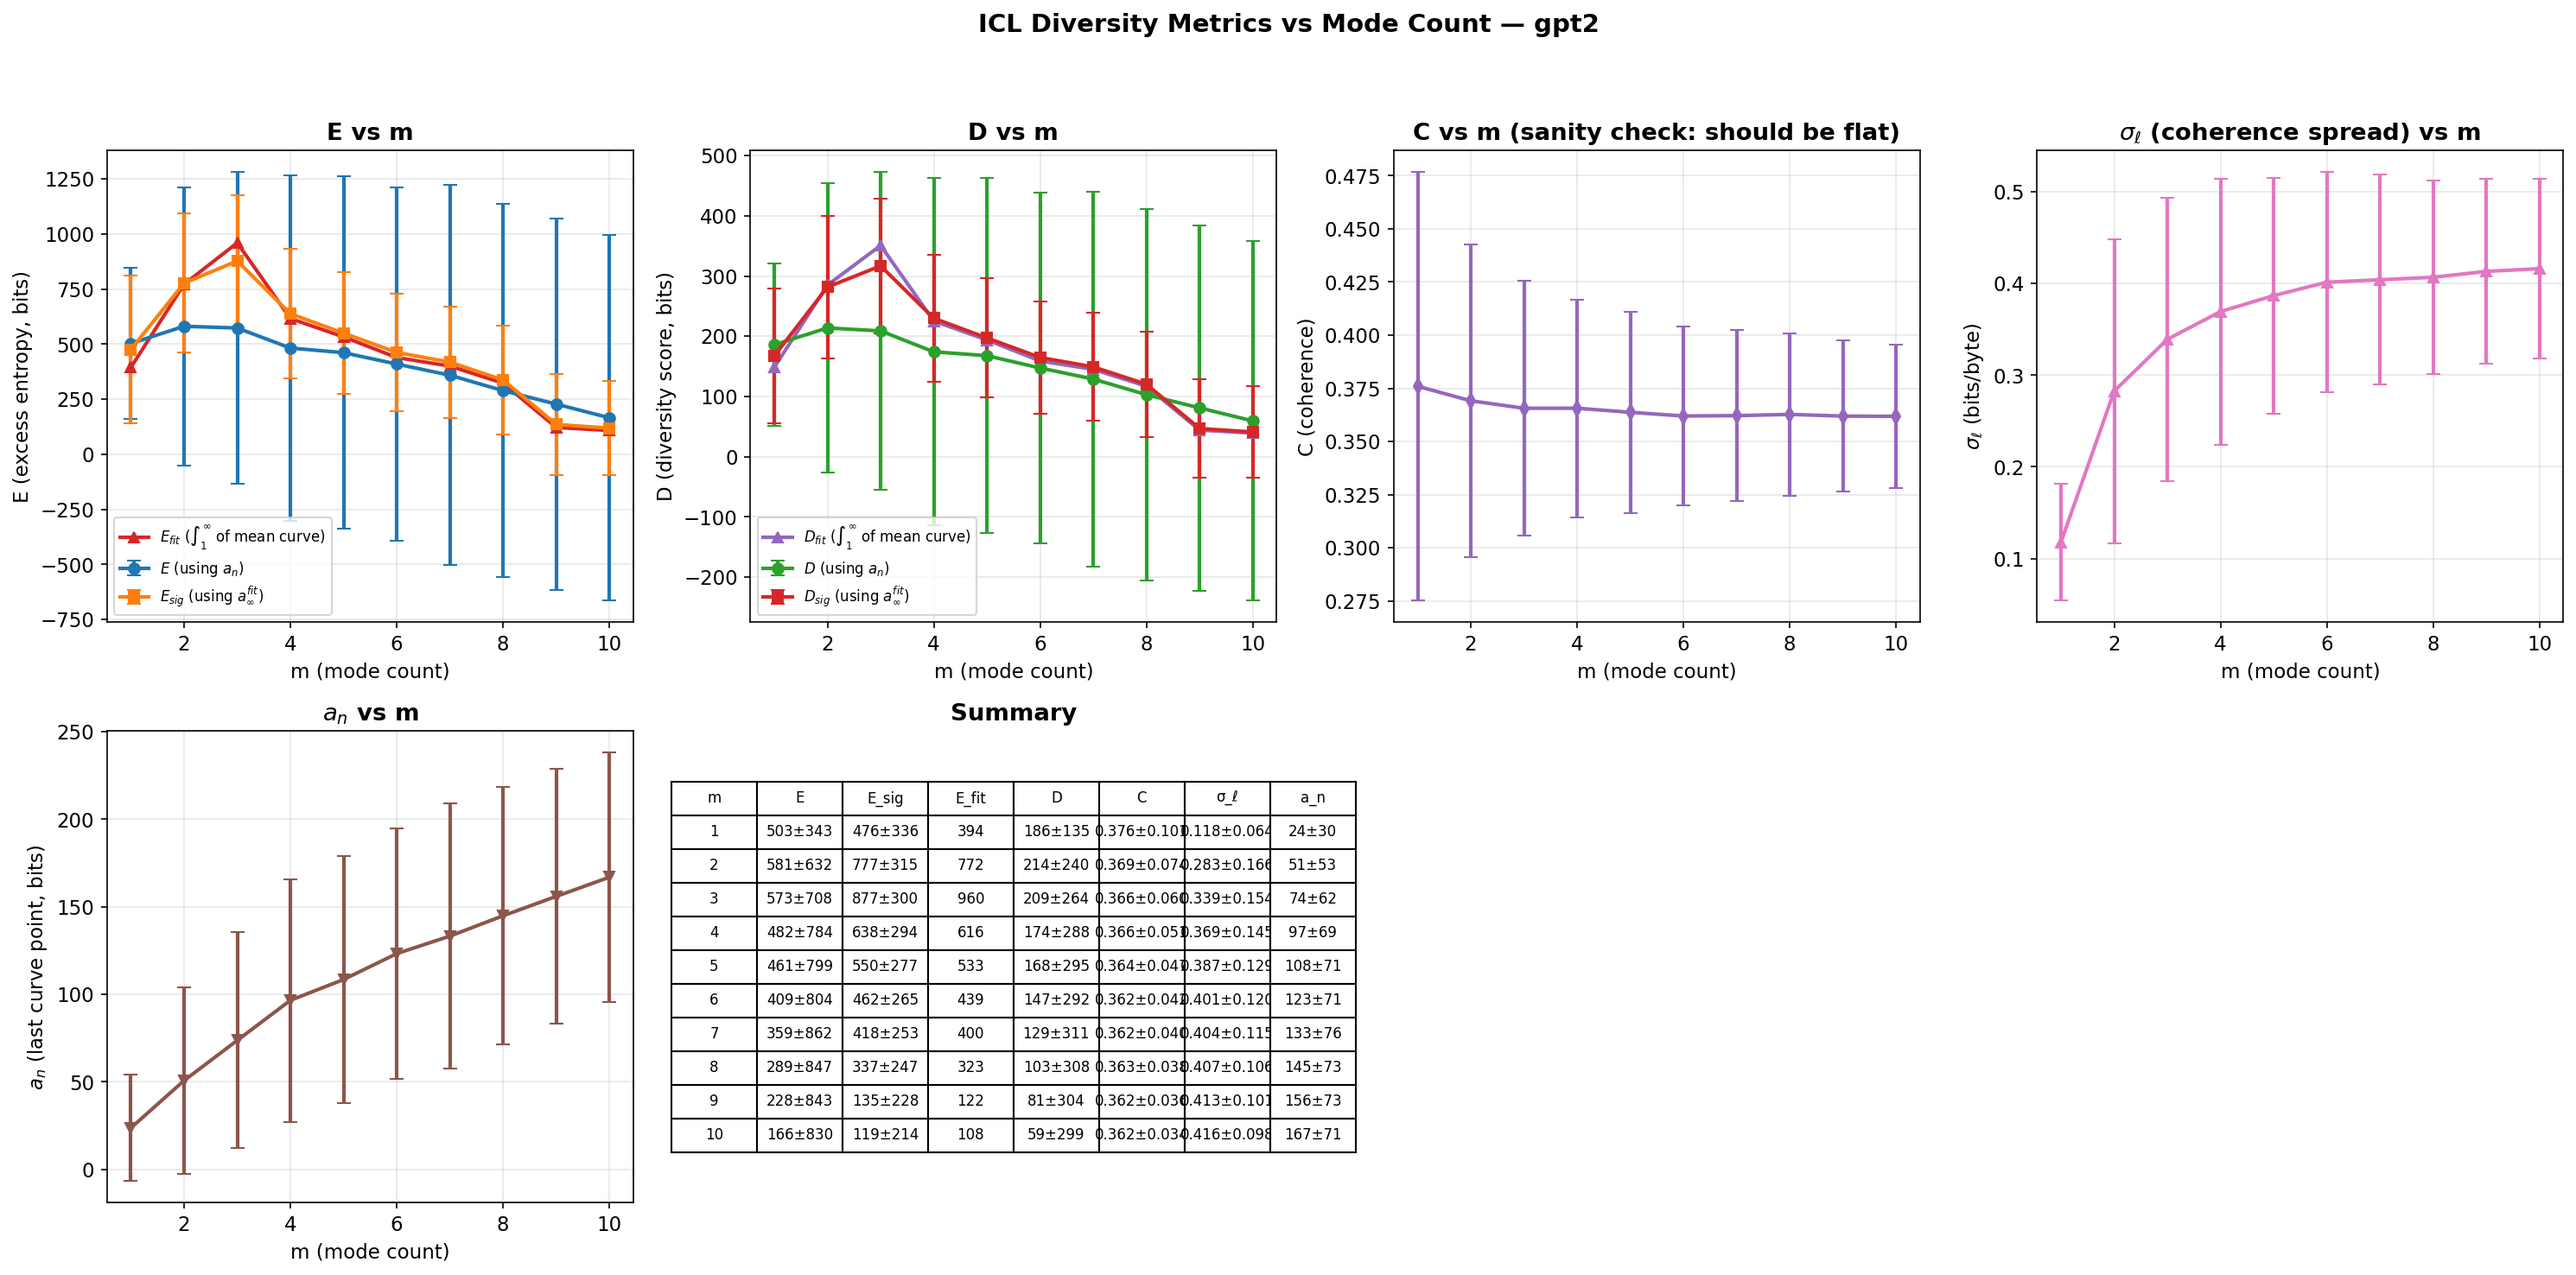
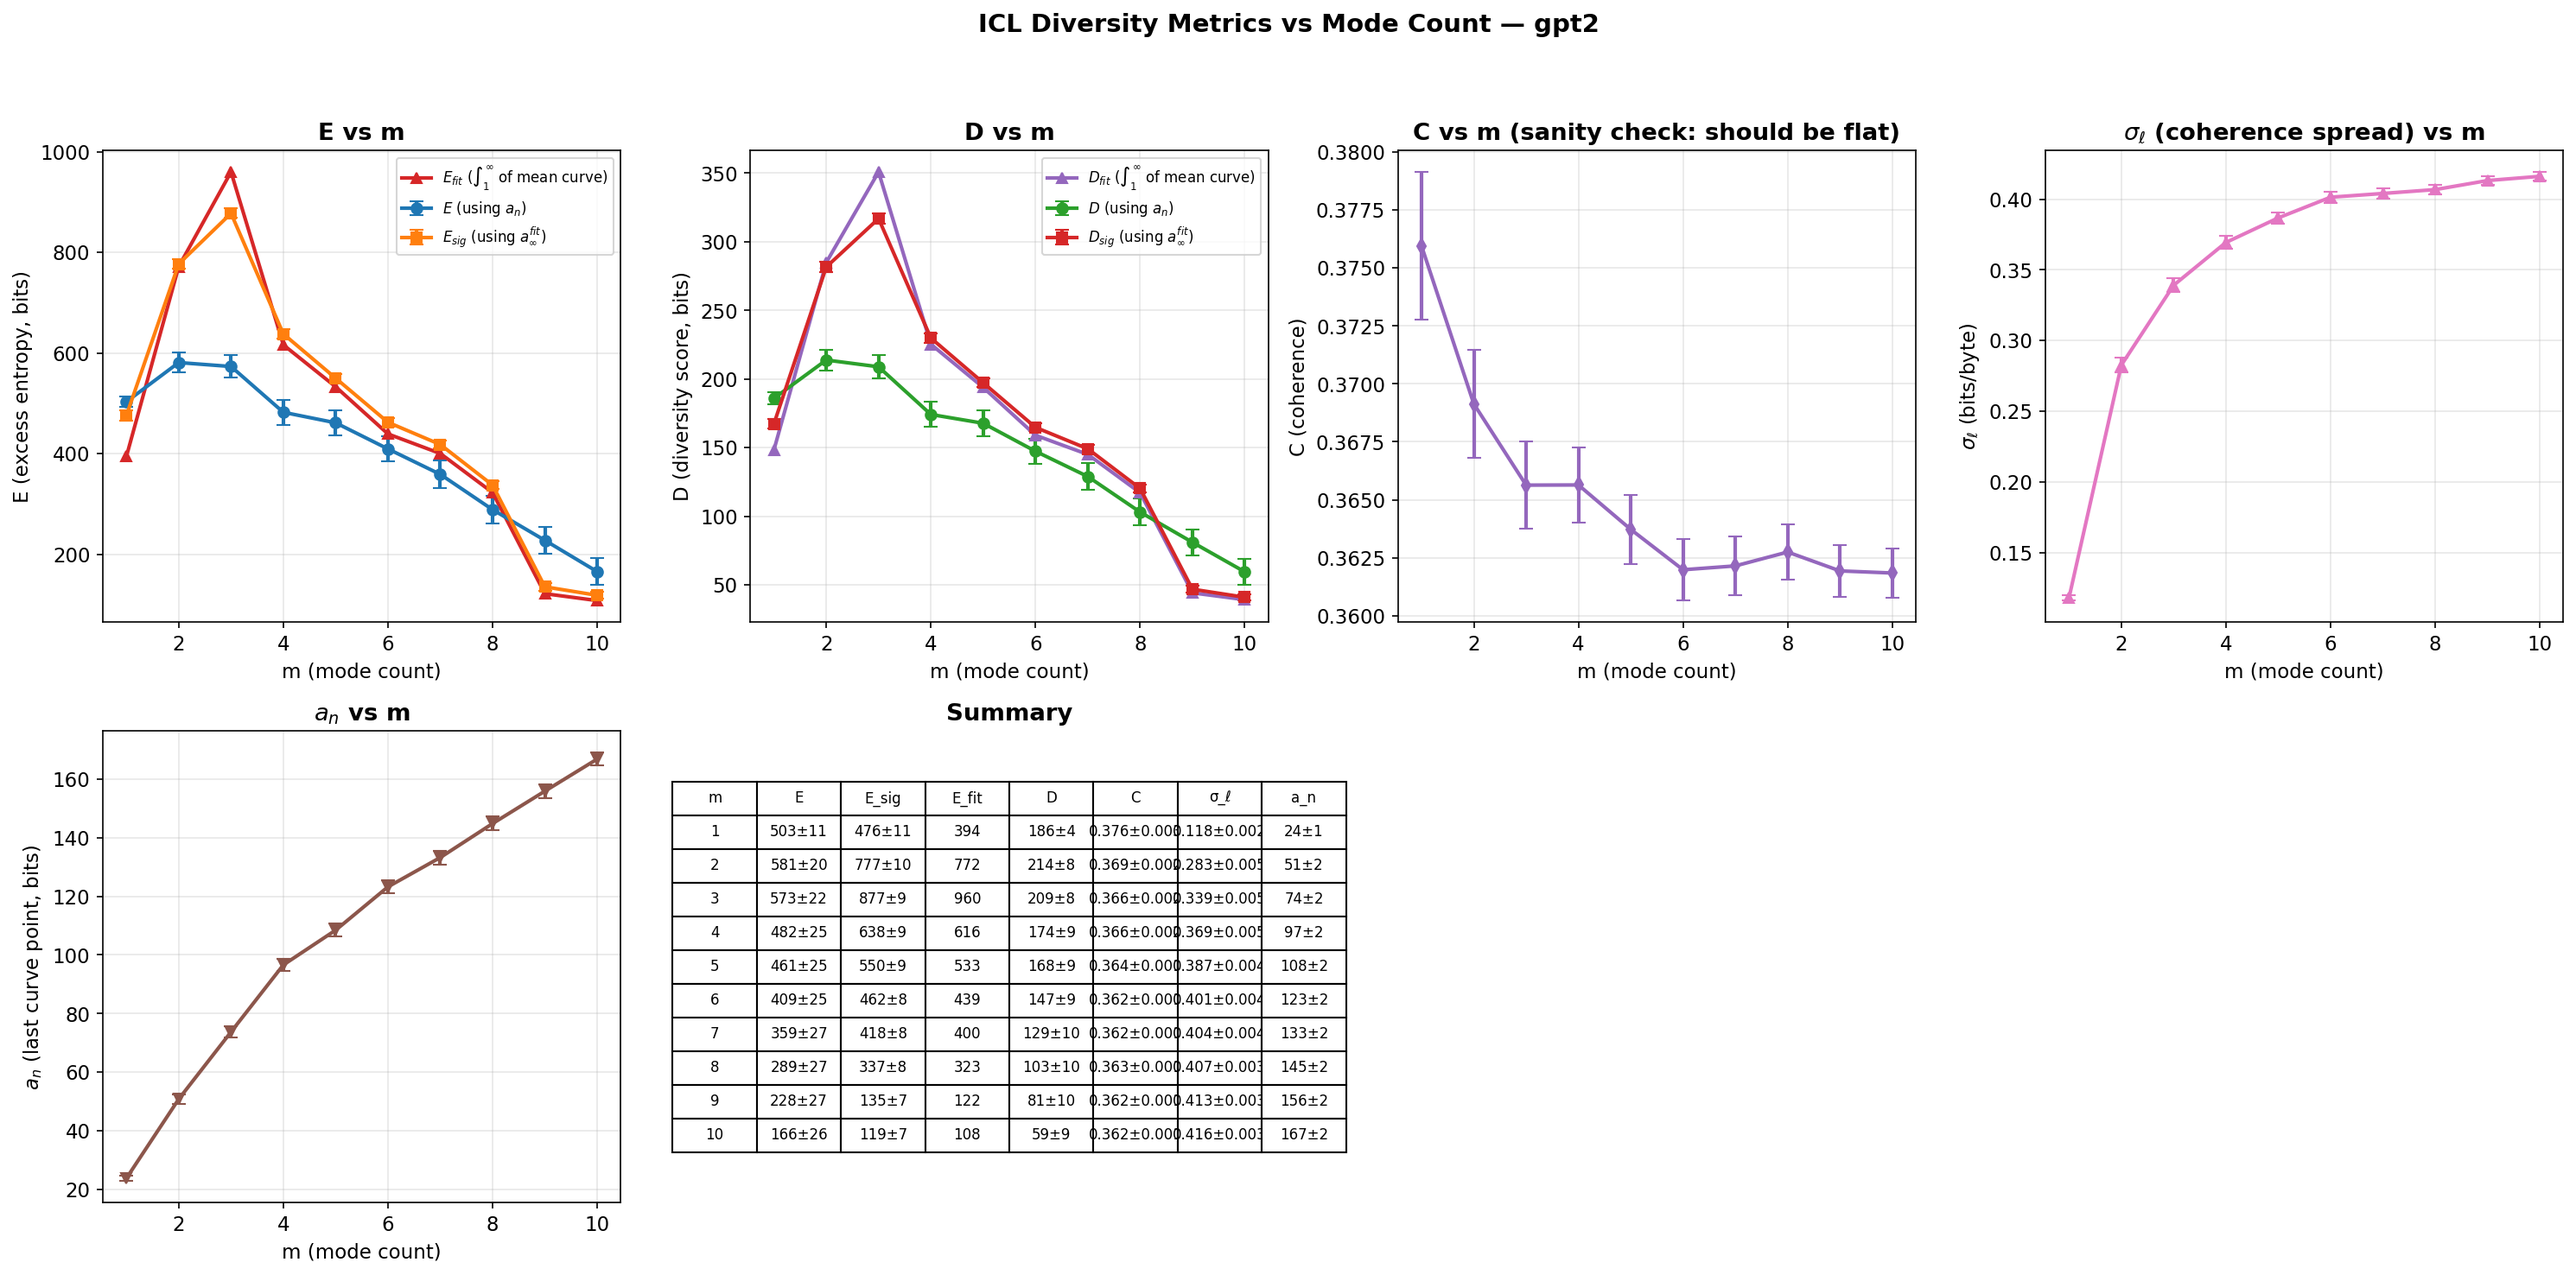
fix: switch all error bars/bands from ±1 SD to ±1 SEM
SD showed per-draw variability, masking the tight uncertainty in means.
SEM = SD/√n correctly shows uncertainty in the estimated mean.

diff --git a/scripts/plot_mode_count_results.py b/scripts/plot_mode_count_results.py
@@ -82,13 +82,13 @@ def plot_ak_curves_by_m(grouped: dict[int, list[dict]], figures_dir: Path, model
             k = np.arange(1, len(curve) + 1)
             ax.plot(k, curve, marker="o", markersize=2, linewidth=0.8, color=color, alpha=0.4)
 
-        # Plot mean ± SD
+        # Plot mean ± SEM
         curves = np.array([r["a_k_curve"] for r in runs])
         mean_curve = np.mean(curves, axis=0)
-        std_curve = np.std(curves, axis=0)
+        sem_curve = np.std(curves, axis=0) / np.sqrt(len(runs))
         k = np.arange(1, len(mean_curve) + 1)
         ax.plot(k, mean_curve, marker="o", markersize=4, linewidth=2, color=color, label="mean")
-        ax.fill_between(k, mean_curve - std_curve, mean_curve + std_curve, alpha=0.2, color=color)
+        ax.fill_between(k, mean_curve - sem_curve, mean_curve + sem_curve, alpha=0.3, color=color)
 
         n_resp = runs[0].get("n_responses", 0)
         ax.set_title(f"m = {m} ({n_resp // m} resp/mode)", fontweight="bold")
@@ -115,12 +115,12 @@ def plot_ak_overlay(grouped: dict[int, list[dict]], figures_dir: Path, model_nam
     for m, runs in sorted(grouped.items()):
         curves = np.array([r["a_k_curve"] for r in runs])
         mean_curve = np.mean(curves, axis=0)
-        std_curve = np.std(curves, axis=0)
+        sem_curve = np.std(curves, axis=0) / np.sqrt(len(runs))
         k = np.arange(1, len(mean_curve) + 1)
 
         color = _get_color_for_m(m, m_values)
         ax.plot(k, mean_curve, marker="o", markersize=4, linewidth=2, color=color, label=f"m = {m}")
-        ax.fill_between(k, mean_curve - std_curve, mean_curve + std_curve, alpha=0.15, color=color)
+        ax.fill_between(k, mean_curve - sem_curve, mean_curve + sem_curve, alpha=0.3, color=color)
 
     ax.set_xlabel("k (response index)", fontsize=12)
     ax.set_ylabel("$a_k$ (bits)", fontsize=12)
@@ -149,7 +149,7 @@ def plot_metrics_vs_m(grouped: dict[int, list[dict]], figures_dir: Path, model_n
         m_values.append(m)
         Es = [r["excess_entropy_E"] for r in runs]
         E_means.append(np.mean(Es))
-        E_stds.append(np.std(Es))
+        E_stds.append(np.std(Es) / np.sqrt(len(runs)))
 
         # Fit sigmoid to the mean curve (1 fit per m, not per run)
         curves = np.array([r["a_k_curve"] for r in runs])
@@ -163,9 +163,9 @@ def plot_metrics_vs_m(grouped: dict[int, list[dict]], figures_dir: Path, model_n
             E_sigs = [float(sum(a_k - a_inf for a_k in r["a_k_curve"])) for r in runs]
             D_sigs = [r["coherence_C"] * e_sig for r, e_sig in zip(runs, E_sigs)]
             E_sig_means.append(np.mean(E_sigs))
-            E_sig_stds.append(np.std(E_sigs))
+            E_sig_stds.append(np.std(E_sigs) / np.sqrt(len(runs)))
             D_sig_means.append(np.mean(D_sigs))
-            D_sig_stds.append(np.std(D_sigs))
+            D_sig_stds.append(np.std(D_sigs) / np.sqrt(len(runs)))
             # E_fit: single value from integral of mean curve's fit
             E_fit_vals.append(fit_params["E_fit"])
         else:
@@ -177,21 +177,21 @@ def plot_metrics_vs_m(grouped: dict[int, list[dict]], figures_dir: Path, model_n
 
         Cs = [r["coherence_C"] for r in runs]
         C_means.append(np.mean(Cs))
-        C_stds.append(np.std(Cs))
+        C_stds.append(np.std(Cs) / np.sqrt(len(runs)))
 
         Ds = [r["diversity_score_D"] for r in runs]
         D_means.append(np.mean(Ds))
-        D_stds.append(np.std(Ds))
+        D_stds.append(np.std(Ds) / np.sqrt(len(runs)))
 
         # a_n: last point of a_k curve
         a_ns = [r["a_k_curve"][-1] for r in runs]
         a_n_means.append(np.mean(a_ns))
-        a_n_stds.append(np.std(a_ns))
+        a_n_stds.append(np.std(a_ns) / np.sqrt(len(runs)))
 
         # σ_ℓ: coherence spread from core
         sigmas = [r["coherence_spread_sigma"] for r in runs]
         sigma_means.append(np.mean(sigmas))
-        sigma_stds.append(np.std(sigmas))
+        sigma_stds.append(np.std(sigmas) / np.sqrt(len(runs)))
 
     # D_fit: single value per m (E_fit * mean C)
     D_fit_vals = [e * c for e, c in zip(E_fit_vals, C_means)]
@@ -300,7 +300,7 @@ def plot_comparison(datasets: list[tuple[str, dict]], figures_dir: Path) -> None
                 vals = [r[metric_key] for r in runs]
                 m_vals.append(m)
                 means.append(np.mean(vals))
-                stds.append(np.std(vals))
+                stds.append(np.std(vals) / np.sqrt(len(runs)))
             ax.errorbar(m_vals, means, yerr=stds, marker="o", capsize=4, linewidth=2, label=model_name)
         ax.set_xlabel("m (mode count)")
         ax.set_ylabel(ylabel)
